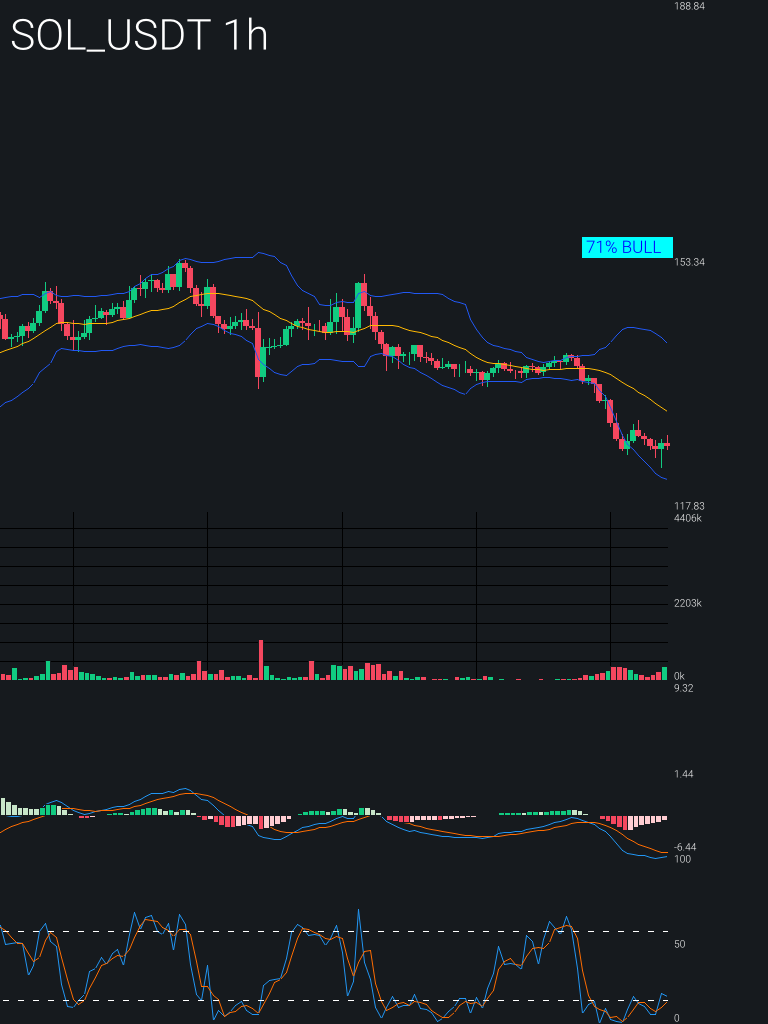
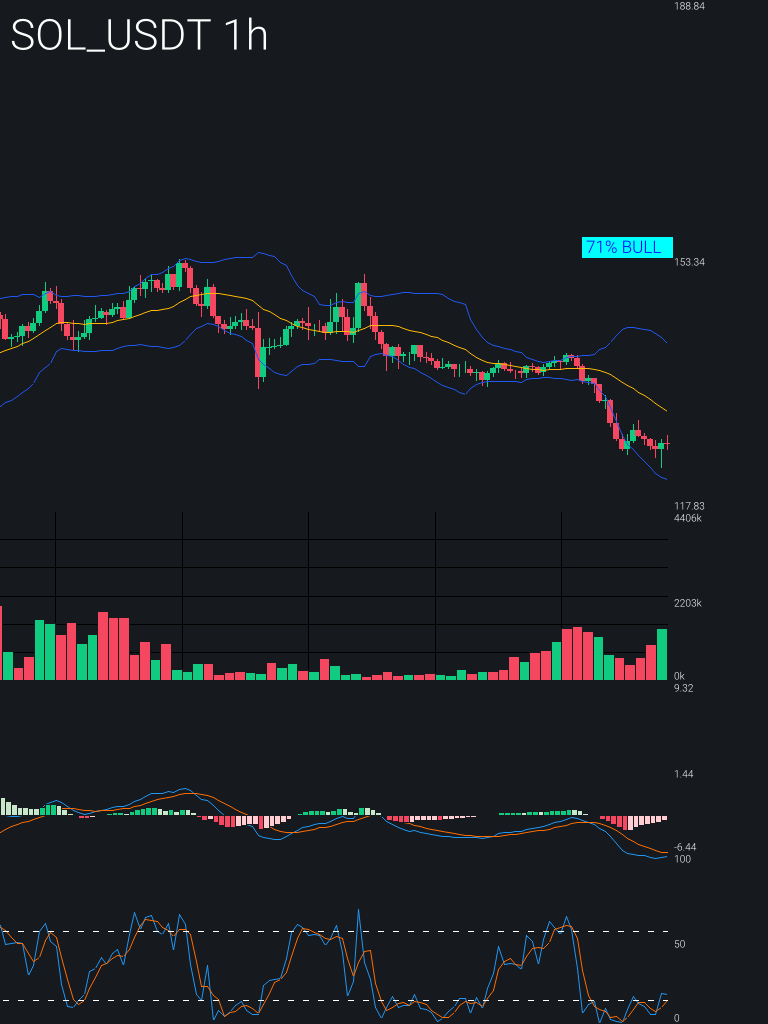
fix volume high

Changed region(s): [[0.0, 0.5, 0.5312, 0.6875], [0.5312, 0.5, 0.875, 0.6875]]

diff --git a/feeder/src/charts/candle.rs b/feeder/src/charts/candle.rs
@@ -330,18 +330,46 @@ impl Chart {
                 let mut area_iter = areas.into_iter().enumerate();
                 if self.volume_enabled {
                     let (_idx, volume_area) = area_iter.next().unwrap();
-                    let volumes: Vec<f32> = past_data
+
+                    // Step 1: Calculate the visible time range
+                    let total_candles = past_data.len();
+                    let final_width = 768; // As defined earlier
+                    let visible_candles = (final_width / candle_width) as usize;
+                    let start_index = total_candles.saturating_sub(visible_candles);
+
+                    // Get the visible time range
+                    let first_visible_time =
+                        parse_kline_time(past_data[start_index].open_time, timezone);
+                    let last_visible_time =
+                        parse_kline_time(past_data[total_candles - 1].open_time, timezone);
+
+                    // Step 2: Filter data for the visible range and calculate max_volume
+                    let visible_data: Vec<&Kline> = past_data
+                        .iter()
+                        .filter(|k| {
+                            let time = parse_kline_time(k.open_time, timezone);
+                            time >= first_visible_time && time <= last_visible_time
+                        })
+                        .collect();
+
+                    let max_volume = visible_data
                         .iter()
                         .map(|k| k.volume.parse::<f32>().unwrap())
-                        .collect();
-                    let max_volume = volumes.iter().fold(0.0f32, |a, &b| a.max(b));
-                    println!("max_volume: {:?}", max_volume);
+                        .fold(0.0f32, |a, b| a.max(b));
+
+                    println!("max_volume (visible range): {:?}", max_volume);
+
+                    // Step 3: Build the volume chart with the visible time range and max_volume
                     let mut volume_chart = ChartBuilder::on(&volume_area)
                         .margin_right(margin_right)
-                        .build_cartesian_2d(first_time..last_time, 0.0f32..max_volume * 1.1)?;
+                        .build_cartesian_2d(
+                            first_visible_time..last_visible_time,
+                            0.0f32..max_volume * 1.1,
+                        )?;
+
                     draw_volume_bars(
                         &mut volume_chart,
-                        &Some(past_data.to_vec()),
+                        &Some(visible_data.into_iter().cloned().collect()),
                         timezone,
                         &self.timeframe,
                     )?;
